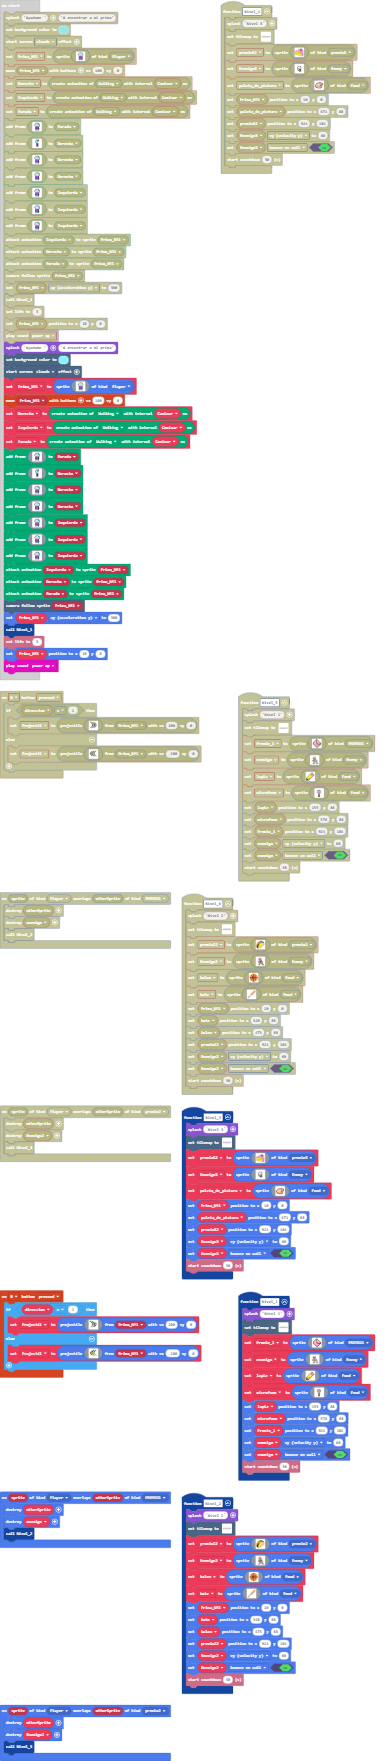
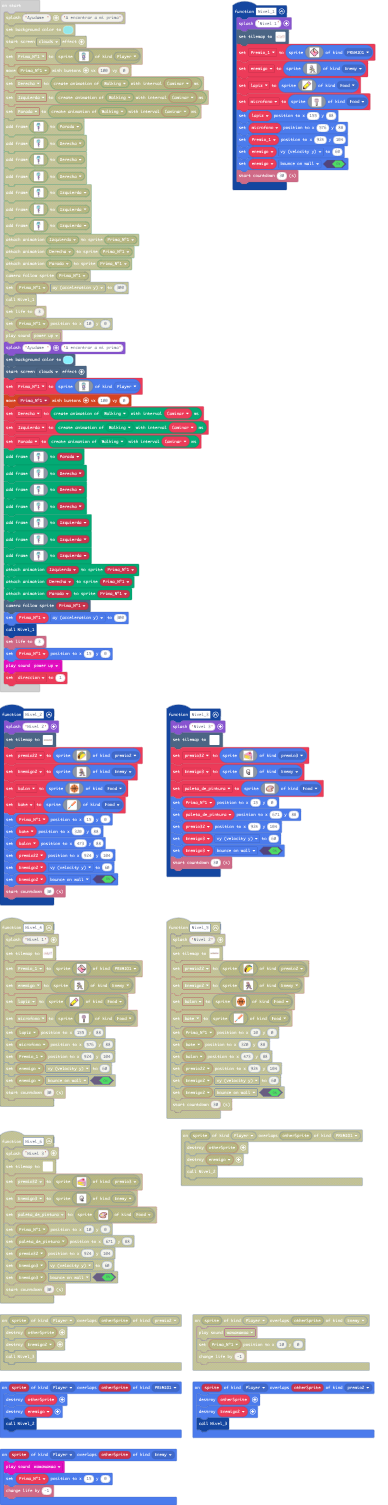
Update main.blocks, main.ts, tilemap.g.jres

diff --git a/main.ts b/main.ts
@@ -117,7 +117,7 @@ function Nivel_3 () {
         . . . . . e e e e e e e e e e e e e e e . . . . . 
         . . . . . . . . e e e e e e e e e e . . . . . . . 
         `, SpriteKind.Food)
-    Prima_Nº1.setPosition(10, 0)
+    Prima_Nº1.setPosition(15, 0)
     paleta_de_pintura.setPosition(671, 88)
     premio32.setPosition(924, 104)
     Enemigo3.vy = 60
@@ -167,36 +167,36 @@ controller.B.onEvent(ControllerButtonEvent.Pressed, function () {
 })
 function Nivel_1 () {
     game.splash("Nivel 1")
[1 lines of base64/hex data omitted]
-        2 2 2 2 2 2 2 2 2 2 2 2 2 2 2 2 2 2 2 2 2 2 2 2 2 2 2 2 2 2 2 2 2 2 2 2 2 2 2 2 2 2 2 2 2 2 2 2 2 2 2 2 2 2 2 2 2 2 2 2 2 2 2 2 2 2 2 2 2 2 2 2 2 2 2 2 2 2 2 2 2 2 2 2 2 2 2 2 2 2 
-        2 . . . . . . . . . . . . . . . . . . . . . . . . . . . . . . . . . . . . . . . . . . . . . . . . . . . . . . . . . . . . . . . . . . . . . . . . . . . . . . . . . . . . . . . 2 2 
-        2 . . . . . . . . . . . . . . . . . . . . . . . . . . . . . . . . . . . . . . . . . . . . . . . . . . . . . . . . . . . . . . . . . . . . . . . . . . . . . . . . . . . . . 2 2 2 2 
-        2 . . . . . . . . . . . . . . . . . . . . . . . . . . . . . . . . . . . . . . . . . . . . . . . . . . . . . . . . . . . . . . . . . . . . . . . . . . . . . . . . . . . . . 2 2 2 2 
-        2 . . . . . . . . . . . . . . . . . . . . . . . . . . . . . . . . . . . . . . . . . . . . . . . . . . . . . . . . . . . . . . . . . . . . . . . . . . . . . . . . . . . . 2 2 2 2 2 
-        2 . . . . . . . . . . . . . . . . . . . . . . . . . . . . . . . . . . . . . . . . . . . . . . . . . . . . . . . . . . . . . . . . . . . . . . . . . . . . . . 2 2 2 2 2 2 2 2 2 2 2 
-        2 . . . . . . . . . . . . . . . . . . . . . . . . . . . . . . . . . . . . . . . . . . . . . . . . . . . . . . . . . . . . . 2 2 2 2 2 2 2 2 2 2 2 2 2 2 2 2 2 2 2 2 2 2 2 2 2 2 2 2 
-        2 . . . . . . . . . . . . . . 2 2 2 2 2 2 2 2 2 2 2 2 2 2 2 2 2 2 2 2 2 2 2 2 2 2 2 2 2 2 2 2 . . . . . . 2 2 2 2 . . . . . . . . . . . . . . . . . . . . . . . . . . 2 2 2 2 2 2 2 
-        2 . . . . . . . . . . . . 2 2 . . . . . . . . . . . . . . . . . . . . . . . . . . . . . . . . . . . . . 2 . . . . . . 2 2 2 . . . . . . . . . . . . . . . . . . . . . 2 2 2 2 2 2 2 
-        2 . . . . . . . . 2 2 2 2 . . . . . . . . . . . . . . . . . . . . . . . . . . . . . . . . . . . . . . . . . . . . . . . . . . . . . . . . . . . . . . . . . . . . . . 2 2 2 2 2 2 2 
-        2 . . . . . . . 2 . . . . . . . . . . . . . . . . . . . . . . . . . . . . . . . . . . . . . . . . . 2 2 . . . . . . . . . . . . . . . . . . . . . . . . . . . . . 2 2 2 2 2 2 2 2 2 
-        2 . . . . . . . . . . . . . . . . . . . . . . . . . . . . . . . . . . . . . . . . . . . . . . . 2 2 . . . . . . . . . . . . . . . . . . . . . . . . . . . . . . 2 2 2 2 2 2 2 2 2 2 
-        2 . . . . . . . . . . . . . . . . . 2 2 . . . . . . . . . . . . . . . . . . . . . . . . . . . . . . . . . . . . . . . . . . . . . . . . . . . . . . . . . . . . 2 2 2 2 . . 2 2 2 2 
-        2 . . . . . . . . . . . . . . . . . . 2 2 2 2 2 2 . . . . . . . . . . . . . . . . . . . . . . . . . . . . . . . . . . . . . . . . . . . . . . . . . . . . . . 2 2 . . . . . . 2 2 2 
[1 lines of base64/hex data omitted]
+        . . . . . . . . . . . . . . . . . . . . . . . . . . . . . . . . . . . . . . . . . . . . . . . . . . . . . . . . . . . . . . . . . . . . . . . . . . . . . . . . . . . . . . . . . . 
+        . . . . . . . . . . . . . . . . . . . . . . . . . . . . . . . . . . . . . . . . . . . . . . . . . . . . . . . . . . . . . . . . . . . . . . . . . . . . . . . . . . . . . . . . . . 
+        . . . . . . . . . . . . . . . . . . . . . . . . . . . . . . . . . . . . . . . . . . . . . . . . . . . . . . . . . . . . . . . . . . . . . . . . . . . . . . . . . . . . . . . . . . 
+        . . . . . . . . . . . . . . . . . . . . . . . . . . . . . . . . . . . . . . . . . . . . . . . . . . . . . . . . . . . . . . . . . . . . . . . . . . . . . . . . . . . . . . . . . . 
+        . . . . . . . . . . . . . . . . . . . . . . . . . . . . . . . . . . . . . . . . . . . . . . . . . . . . . . . . . . . . . . . . . . . . . . . . . . . . . . . . . . . . . 2 2 2 2 2 
+        . . . . . . . . . . . . . . . . . . . . . . . . . . . . . . . . . . . . . . . . . . . . . . . . . . . . . . . . . . . . . . . . . . . . . . . . . . . . . . . 2 2 2 2 2 2 2 2 2 2 2 
+        . . . . . . . . . . . . . . . . . . . . . . . . . . . . . . . . . . . . . . . . . . . . . . . . . . . . . . . . . . . . . . 2 2 2 2 2 2 2 2 2 2 2 2 2 2 2 2 2 2 2 2 2 2 2 2 2 2 2 2 
+        . . . . . . . . . . . . . . . 2 2 2 2 2 2 2 2 2 2 2 2 2 2 2 2 2 2 2 2 2 2 2 2 2 2 2 2 2 2 2 2 . . . . . . . . . . . . . . . 2 2 2 2 2 2 2 2 2 2 2 2 2 2 2 2 2 2 2 2 2 2 2 2 . . . 2 
+        . . . . . . . . . . . . . . . 2 2 2 . . . 2 2 2 2 2 2 2 2 2 2 2 2 2 2 2 2 2 2 2 2 2 2 2 2 2 . . . . . . . . . . . . . 2 2 2 2 2 2 2 2 2 2 2 2 2 2 2 2 2 2 2 2 2 2 2 2 2 . . . . . 2 
+        . . . . . . . . . . . . . . . 2 2 2 . . . . . . . . . . . . . 2 2 2 2 2 2 2 2 2 2 2 2 2 2 . . . . . . . . . . . . . . . . 2 2 2 2 2 2 2 2 2 2 2 2 2 2 2 2 2 2 2 . . . . . . . . . 2 
+        . . . . . . . . . . . . . . . . . 2 . . . . . . . . . . . . . . . . . 2 2 2 2 2 2 2 2 2 2 . . . . . . . . . . . . . . . . . 2 2 2 2 2 2 2 2 2 2 2 2 2 2 2 2 . . . . . . . . . . . 2 
+        . . . . . . . . . . . . . . . . . . . . . . . . . . . . . . . . . . . 2 2 2 2 2 2 2 2 2 2 . . . . . . . . . . . . . . . . . . . . . 2 2 2 2 2 2 2 2 2 2 2 . . . . . . . . . . 2 2 2 
+        . . . . . . . . . . . . . . . . . . 2 2 . . . . . . . . . . . . . . . . . . . . . . . . . . . . . . . . . . . . . . . . . . . . . . . . . . . . . . 2 . . . . . . . . . . . . 2 2 2 
+        . . . . . . . . . . . . . . . . . . . 2 2 2 2 2 2 . . . . . . . . . . . . . . . . . . . . . . . . . . . . . . . . . . . . . . . . . . . . . . . . . . . . . . . . . . . . . . 2 2 2 
         2 2 2 2 2 2 2 2 . . . . . . . . . . . . . . . . . . . 2 2 2 2 2 . . . . . . . . . . . . . . . . . . . 2 2 . . . . . . . . . . . . . . . . . . . . . . . . . . . . . . . . . . 2 2 2 
-        2 . . . . 2 2 2 2 . . . . . . . . . . . . . . . . . . . . . . . . . . . . . . . . . . . . . . . . . . 2 2 2 2 2 2 . . . . . . . . . . . . . . . . . . . . . . . . . . . . . . 2 2 2 
-        2 . . . . . . . 2 2 2 2 . . . . . . . . . . . . . . . . . . . . . . . . . . . . . . . . . . . . . 2 2 2 . . . . . 2 2 2 . . . . . . . . . . . . . . . . . . . . . . . . 2 2 2 2 2 2 
-        2 . . . . . . . . . 2 2 2 2 2 2 . . . . . . . . . . . . . . . . . . . . . . . . . . . . . . 2 2 2 . . . . . . . . . . . 2 2 2 2 2 2 2 . . . . . . . . . . . . . 2 2 2 2 2 2 . . . 2 
-        2 . . . . . . . . . . 2 2 2 2 2 2 2 . . . . . . . . . . . . . . . . . . . 2 2 2 2 . . . . . . . . . . . . . . . . . . . . . . . . . . 2 2 2 . . . . . . . . 2 2 2 2 2 . . . . . . 2 
-        2 . . . . . . . . . . . . 2 2 2 2 2 2 . . . . . . . . . . . . . . . . 2 2 2 2 2 2 2 . . . . . . . . . . . . . . . . . . . . . . . . . . . . 2 . . . . . . 2 2 2 2 2 . . . . . . . 2 
-        2 . . . . . . . . . . . . . . . 2 2 2 2 2 2 2 2 2 2 2 2 2 2 2 2 2 2 2 2 2 2 2 2 2 2 . . . . . . . . . . . . . . . . . . . . . . . . . . . . . 2 2 2 2 2 2 2 . . . . . . . . . . . 2 
-        2 2 2 . . . . . . . . . . . . . . . 2 2 2 2 2 2 2 2 2 2 2 2 2 2 2 . . . . . . . 2 2 2 2 . . . . . . . . . . . . . . . . . . . . . . . . . . . . . . . . . . . . . . . . . . . . . 2 
-        2 2 2 2 2 . . . . . . . . . . . . . . . . . . . . . . . . . . . . . . . . . . . . . 2 2 2 2 2 2 . . . . . . . . . . . . . . . . . . . . . . . . . . . . . . . . . . . . . . . . . 2 
-        2 2 2 2 2 2 . . . . . . . . . . . . . . . . . . . . . . . . . . . . . . . . . . . . 2 2 2 2 2 2 2 2 2 . . . . . . . . . . . . . . . . . . . . . . . . . . . . . . . . . . . . . . 2 
-        2 2 2 2 2 2 . . . . . . . . . . . . . . . . . . . . . . . . . . . . . . . . . . . . . . . . . . . . . 2 2 2 2 2 . . . . . . . . . . . . . . . . . . . . . . . . . . . . . . . . . 2 
-        2 2 2 2 2 2 2 . . . . . . . . . . . . . . . . . . . . . . . . . . . . . . . . . . . . . . . . . . . . . . . . 2 2 . . . . . . . . . . . . . . . . . . . . . . . . . . . . . . . . 2 
-        2 2 . . . 2 2 . . . . . . . . . . . . . . . . . . . . . . . . . . . . . . . . . . . . . . . . . . . . . . . . 2 2 . . . . . . . . . . . . . . . . . . . . . . . . . . . . . . . . 2 
-        2 2 . . . . 2 2 2 2 2 2 . . . . . . . . . . . . . . . . . . . . . . . . . . . . . . . . . . . . . . . . . . . . . 2 2 . . . . . . . . . . . . . . . . . . . . 2 2 2 2 2 2 2 2 2 2 2 
-        2 2 . . . . 2 2 2 2 2 2 2 2 2 . . . . . . 2 2 2 2 2 2 2 2 2 2 2 . . . . . . . . . . . . . . . . . . . . . . . . . . 2 2 . . . . . . . . . . . . 2 2 2 2 2 2 2 . . . . . . . . . . 2 
+        2 2 2 2 2 2 2 2 2 . . . . . . . . . . . . . . . . . . . . . . . . . . . . . . . . . . . . . . . . . . 2 2 2 2 2 2 . . . . . . . . . . . . . . . . . . . . . . . . . . . . . . 2 2 2 
+        2 2 2 2 2 2 2 2 2 2 2 2 . . . . . . . . . . . . . . . . . . . . . . . . . . . . . . . . . . . . . 2 2 2 2 2 2 2 2 2 2 2 . . . . . . . . . . . . . . . . . . . . . . . . 2 2 2 2 2 2 
+        2 2 2 2 2 2 2 2 2 2 2 2 2 2 2 2 . . . . . . . . . . . . . . . . . . . . . . . . . . . . . . 2 2 2 2 2 2 2 2 2 2 2 2 2 2 2 2 2 2 2 2 2 . . . . . . . . . . . . . 2 2 2 2 2 2 2 2 2 2 
+        2 2 2 . . . . . 2 2 2 2 2 2 2 2 2 2 . . . . . . . . . . . . . . . . . . . 2 2 2 2 2 . . . . 2 2 2 2 2 2 2 2 2 2 2 2 2 2 2 2 2 2 2 2 2 2 2 2 . . . . . . . . 2 2 2 2 2 2 2 2 2 2 2 2 
+        2 2 2 . . . . . . 2 2 2 2 2 2 2 2 2 2 . . . . . . . . . . . . . . . . 2 2 2 2 2 2 2 . . . . . . . . 2 2 2 2 2 2 2 2 2 2 2 2 2 2 2 2 2 2 2 2 2 . . . . . . 2 2 2 2 2 2 2 2 2 2 2 2 2 
+        2 2 2 . . . . . . . 2 2 2 2 2 2 2 2 2 2 2 2 2 2 2 2 2 2 2 2 2 2 2 2 2 2 2 2 2 2 2 2 . . . . . . . . . . . . 2 2 2 2 2 2 2 2 2 2 2 2 2 2 2 2 2 2 2 2 2 2 2 2 2 2 2 2 2 2 2 2 2 2 2 2 
+        2 2 2 . . . . . . . 2 2 2 2 2 2 2 2 2 2 2 2 2 2 2 2 2 2 2 2 2 2 2 2 2 2 2 2 2 2 2 2 2 2 . . . . . . . . . . . . . . . 2 2 2 2 2 2 2 2 2 2 2 2 2 2 2 2 2 2 2 2 2 2 . . . . . . 2 2 2 
+        2 2 2 2 2 . . . . . . 2 2 2 2 2 2 2 2 2 2 2 2 2 2 2 2 2 2 2 2 2 2 2 2 2 2 2 2 2 2 2 2 2 2 2 2 2 . . . . . . . . . . . . . . 2 2 2 2 2 2 2 2 2 2 2 2 2 2 . . . . . . . . . . . 2 2 2 
+        2 2 2 2 2 2 . . . . . . . . . . 2 2 2 2 2 2 2 2 2 2 2 2 2 2 2 2 2 2 2 2 2 2 2 2 2 2 2 2 2 2 2 2 2 2 2 . . . . . . . . . . . 2 2 2 2 2 2 2 2 2 . . . . . . . . . . . . . . . . . 2 2 
+        2 2 2 2 2 2 . . . . . . . . . . . . . . . . . . . . . . . . . . . . . . . 2 2 2 2 2 2 2 2 2 2 2 2 2 2 2 2 2 2 2 . . . . . . 2 2 2 2 2 2 2 2 . . . . . . . . . . . . . . . . . . 2 2 
+        2 2 2 2 2 2 2 . . . . . . . . . . . . . . . . . . . . . . . . . . . . . . . 2 2 2 2 2 2 2 2 2 2 2 2 2 2 2 2 2 2 2 . . . . . . . . . . . . . . . . . . . . . . . . . . . . . . . 2 2 
+        2 2 . . . 2 2 . . . . . . . . . . . . . . . . . . . . . . . . . . . . . . . . 2 2 2 2 2 2 2 2 2 2 2 2 2 2 2 2 2 2 . . . . . . . . . . . . . . . . . . . . . . . . . . . . . . . 2 2 
+        2 2 . . . . 2 2 2 2 2 2 . . . . . . . . . . . . . . . . . . . . . . . . . . . 2 2 2 2 2 2 2 . . . . . . . . . . . 2 2 . . . . . . . . . . . . . . . . . . . . 2 2 2 2 2 2 2 2 2 2 2 
+        2 2 . . . . 2 2 2 2 2 2 2 2 2 . . . . . . 2 2 2 2 2 2 2 2 2 2 2 . . . . . . . . . . . . . . . . . . . . . . . . . . 2 2 . . . . . . . . . . . . 2 2 2 2 2 2 2 2 2 2 2 2 2 2 2 . . 2 
         2 2 . . . . . . . 2 2 2 2 2 2 2 2 2 2 2 2 2 2 2 . . . . . . . . . . . . . . . . . . . . . . . . . . . . . . . . . . 2 2 2 2 2 . . . . . . . . . . . . . . . . . . . . . . . . . . 2 
         2 2 . . . . . . . . . . . . . . . . . . . . . . . . . . . . . . . . . . . . . . . . . . . . . . . 2 2 2 2 2 . . . . . . . . . 2 2 2 2 2 2 . . . . . . . . . . . . . . . . . . . . 2 
         2 2 . . . . . . . . . . . . . . . . . . . . . . . . . . . . . . . . . . . . . . . . . . . . . 2 2 2 2 2 2 2 2 . . . . . . . . . . . . . . . . . . . . . . . . . . . . . . . . . . 2 
@@ -204,7 +204,7 @@ function Nivel_1 () {
         2 2 2 . . . . . . . . . . . . . . . . . . . . . . . . . . . . . . . . . . . . . . . . 2 2 2 2 2 2 2 2 2 2 2 2 2 . . . . . . . . . . . . . . . . . . . . . . . . . . . . . . . . . 2 
         2 2 2 . . . . . . . . . . . . . . . . . . . . . . . 2 2 2 2 2 2 2 2 2 2 2 2 2 2 2 2 2 2 2 2 2 2 2 2 2 2 2 2 2 2 2 2 2 2 2 2 2 2 2 2 2 2 2 2 2 . . . . . 2 2 2 2 2 2 2 2 2 2 2 2 2 2 
         2 2 2 2 2 2 2 2 2 2 2 2 2 2 2 2 2 2 2 2 2 2 2 2 2 2 2 2 2 2 2 2 2 2 2 2 2 2 2 2 2 2 2 2 2 2 2 2 2 2 2 2 2 2 2 2 2 2 2 2 2 2 2 2 2 2 2 2 2 2 2 2 2 2 2 2 2 2 2 2 2 2 2 2 2 2 2 2 2 2 
-        `, [myTiles.transparency16,myTiles.tile12,myTiles.tile11,myTiles.tile2,myTiles.tile6,myTiles.tile24,myTiles.tile26,myTiles.tile31,myTiles.tile32,myTiles.tile14,myTiles.tile41,myTiles.tile43], TileScale.Sixteen))
+        `, [myTiles.transparency16,myTiles.tile12,myTiles.tile11], TileScale.Sixteen))
     Premio_1 = sprites.create(img`
         . . . . . . . f f f . . . . . . . . 
         . . . . . . f f d d f . . . . . . . 
@@ -495,7 +495,7 @@ function Nivel_2 () {
         . 4 2 . . . . . . . . . . . . . . . . . . 
         . . 2 . . . . . . . . . . . . . . . . . . 
         `, SpriteKind.Food)
-    Prima_Nº1.setPosition(10, 0)
+    Prima_Nº1.setPosition(15, 0)
     bate.setPosition(320, 88)
     balon.setPosition(473, 88)
     premio22.setPosition(924, 104)
@@ -520,7 +520,7 @@ sprites.onOverlap(SpriteKind.Projectile, SpriteKind.Enemy, function (sprite, oth
 })
 sprites.onOverlap(SpriteKind.Player, SpriteKind.Enemy, function (sprite, otherSprite) {
     music.wawawawaa.play()
-    Prima_Nº1.setPosition(10, 0)
+    Prima_Nº1.setPosition(15, 0)
     info.changeLifeBy(-1)
 })
 let bate: Sprite = null
@@ -532,10 +532,10 @@ let lapiz: Sprite = null
 let enemigo: Sprite = null
 let Premio_1: Sprite = null
 let Projectil: Sprite = null
-let direccion = 0
 let paleta_de_pintura: Sprite = null
 let Enemigo3: Sprite = null
 let premio32: Sprite = null
+let direccion = 0
 let Caminar = 0
 let Prima_Nº1: Sprite = null
 game.splash("Ayudame ", "A encontrar a mi prima")
@@ -936,8 +936,9 @@ scene.cameraFollowSprite(Prima_Nº1)
 Prima_Nº1.ay = 300
 Nivel_1()
 info.setLife(3)
-Prima_Nº1.setPosition(10, 0)
+Prima_Nº1.setPosition(15, 0)
 music.powerUp.play()
+direccion = 1
 game.onUpdate(function () {
     if (Prima_Nº1.tileKindAt(TileDirection.Bottom, sprites.dungeon.hazardLava1)) {
         info.changeLifeBy(-3)
